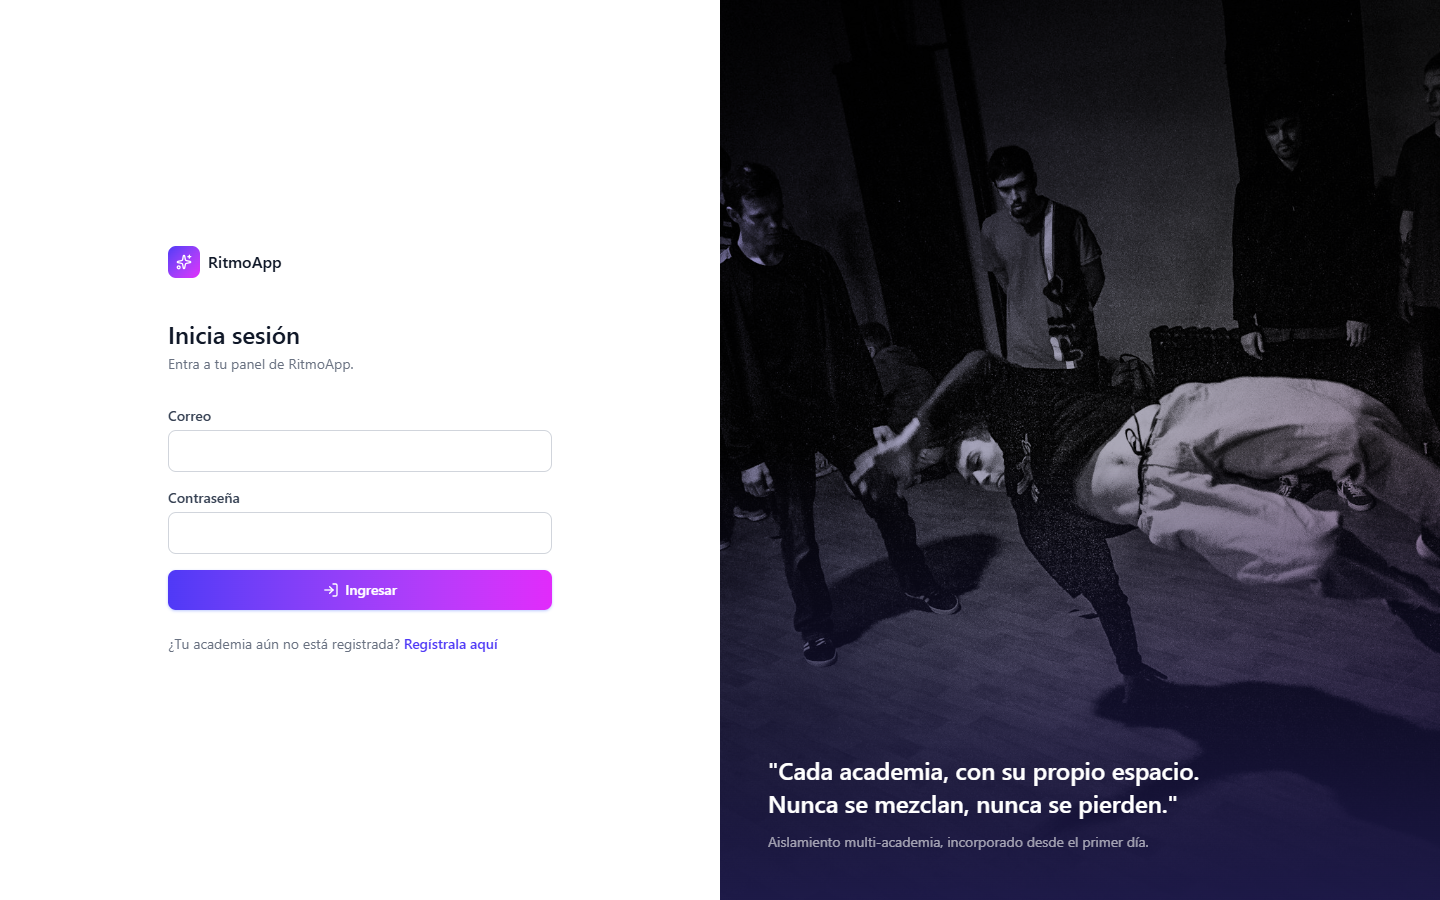
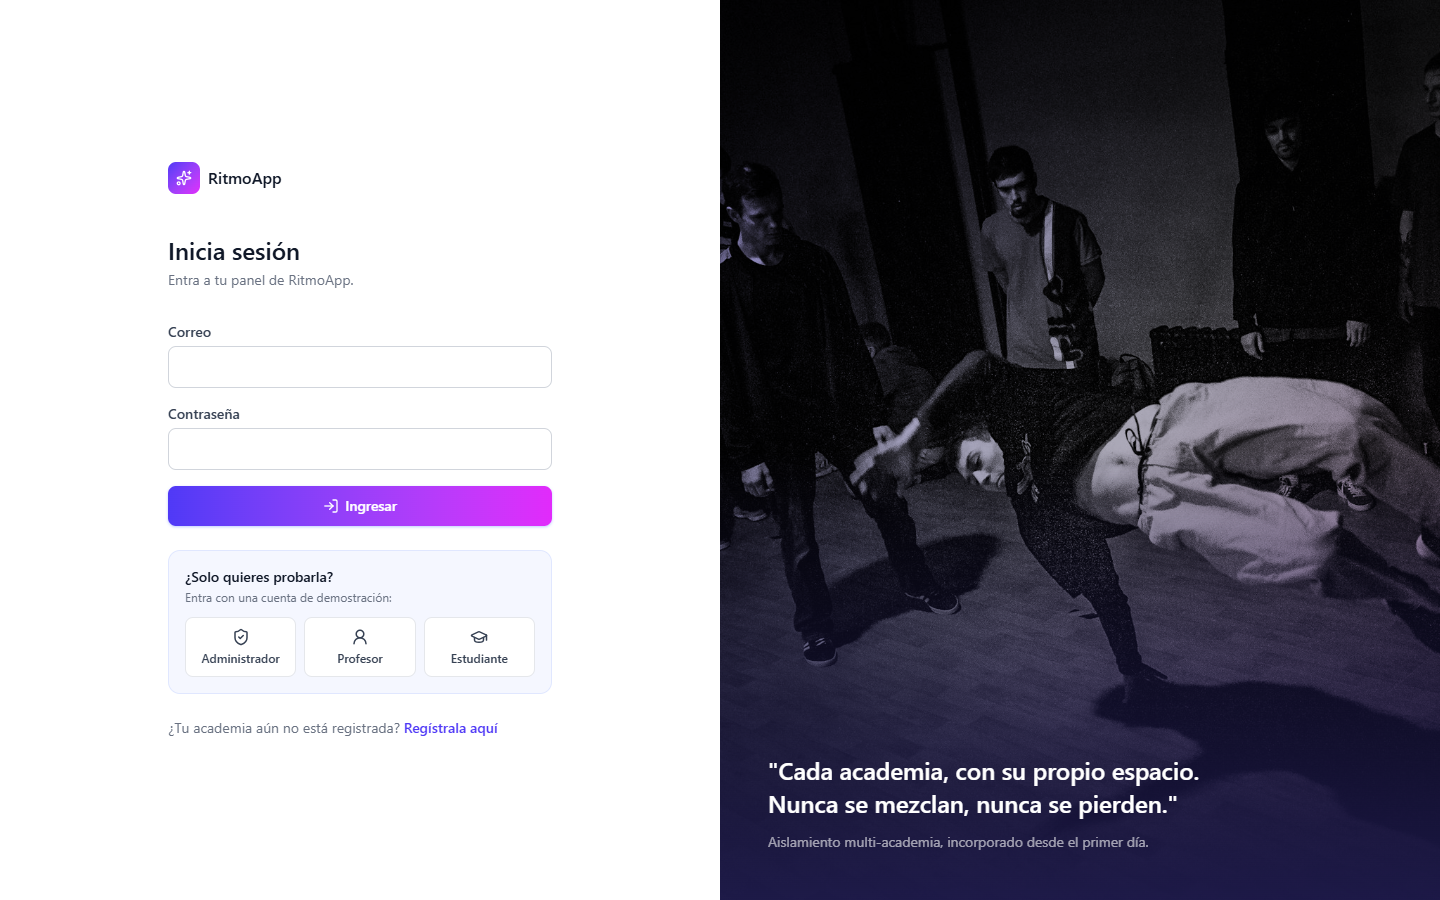
Prepara la demo pública: Render (API) + Neon (BD) + Vercel (frontend)
- render.yaml: la API como Blueprint en Render (Ohio, plan gratis), con
  health check, JWT_SECRET generado por Render y DATABASE_URL / CORS_ORIGIN
  pedidos al crear (nunca en el repo). La base de datos va en Neon porque
  el PostgreSQL gratuito de Render se borra a los 30 días.
- npm run start:demo: migraciones + seeds + arranque. La agenda de demo
  queda siempre alrededor de "hoy".
- El seed de demo deshace lo que cambien los visitantes (academia
  suspendida, salones/ritmos/usuarios de más), ya que en la demo pública
  cualquiera puede entrar como admin o superadmin.
- Login: accesos de un clic a las cuentas de demo (solo con
  VITE_MODO_DEMO=true) y aviso cuando la API gratuita está encendiendo
  (tarda ~1 minuto tras 15 minutos sin uso).
- frontend/vercel.json: las rutas de React Router (/admin/inicio, etc.)
  no dan 404 al recargar la página.
- frontend/.env.example documenta VITE_API_URL y VITE_MODO_DEMO.

Probado en local: start:demo con NODE_ENV=production arranca, aplica
migraciones y carga la demo; CORS solo acepta el origen configurado; los
tres botones de demo entran al panel correcto.

diff --git a/frontend/src/pages/LoginPage.jsx b/frontend/src/pages/LoginPage.jsx
@@ -1,9 +1,25 @@
-import { useState } from "react";
+import { useEffect, useState } from "react";
 import { Link, useNavigate } from "react-router-dom";
-import { Sparkles, LogIn } from "lucide-react";
+import { Sparkles, LogIn, ShieldCheck, GraduationCap, UserRound, Coffee } from "lucide-react";
 import loginDance from "../assets/login-dance.jpg";
 import { useAuth } from "../context/AuthContext";
 import { rutaInicioPara } from "../rutas";
+
+// Solo en la demo pública (VITE_MODO_DEMO=true): accesos de un clic para que
+// quien visite pueda probar cada rol sin copiar correos. Son las cuentas que
+// crea el seed de demostración, sin ningún privilegio fuera de esa academia.
+const MODO_DEMO = import.meta.env.VITE_MODO_DEMO === "true";
+const CUENTAS_DEMO = [
+  { rol: "Administrador", email: "admin@ritmocentral.test", icono: ShieldCheck },
+  { rol: "Profesor", email: "profesor@ritmocentral.test", icono: UserRound },
+  { rol: "Estudiante", email: "estudiante@ritmocentral.test", icono: GraduationCap },
+];
+const PASSWORD_DEMO = "Prueba123!";
+
+// El plan gratuito del hosting apaga la API tras 15 minutos sin uso y tarda
+// cerca de un minuto en volver a encender. Si el login se demora más de
+// esto, se avisa en vez de dejar el botón girando sin explicación.
+const MS_ANTES_DE_AVISAR = 4000;
 
 export default function LoginPage() {
   const { login } = useAuth();
@@ -12,19 +28,39 @@ export default function LoginPage() {
   const [password, setPassword] = useState("");
   const [error, setError] = useState("");
   const [cargando, setCargando] = useState(false);
+  const [servidorDespertando, setServidorDespertando] = useState(false);
 
-  async function manejarSubmit(e) {
-    e.preventDefault();
+  useEffect(() => {
+    if (!cargando) return undefined;
+    const temporizador = setTimeout(() => setServidorDespertando(true), MS_ANTES_DE_AVISAR);
+    return () => {
+      clearTimeout(temporizador);
+      setServidorDespertando(false);
+    };
+  }, [cargando]);
+
+  async function ingresar(correo, clave) {
     setError("");
     setCargando(true);
     try {
-      const usuario = await login(email, password);
+      const usuario = await login(correo, clave);
       navigate(rutaInicioPara(usuario.rol));
     } catch (err) {
       setError(err.message);
     } finally {
       setCargando(false);
     }
+  }
+
+  function manejarSubmit(e) {
+    e.preventDefault();
+    ingresar(email, password);
+  }
+
+  function entrarComoDemo(cuenta) {
+    setEmail(cuenta.email);
+    setPassword(PASSWORD_DEMO);
+    ingresar(cuenta.email, PASSWORD_DEMO);
   }
 
   return (
@@ -63,6 +99,13 @@ export default function LoginPage() {
               />
             </div>
 
+            {servidorDespertando && (
+              <p className="flex items-start gap-2 text-sm text-amber-800 bg-amber-50 dark:bg-amber-950 dark:text-amber-300 rounded-lg px-3 py-2">
+                <Coffee size={16} className="mt-0.5 shrink-0" />
+                El servidor de la demo estaba en reposo y está encendiendo. La primera entrada puede tardar hasta un minuto.
+              </p>
+            )}
+
             {error && <p className="text-sm text-red-600 bg-red-50 dark:bg-red-950 dark:text-red-400 rounded-lg px-3 py-2">{error}</p>}
 
             <button
@@ -73,6 +116,30 @@ export default function LoginPage() {
               <LogIn size={16} /> {cargando ? "Ingresando..." : "Ingresar"}
             </button>
           </form>
+
+          {MODO_DEMO && (
+            <div className="mt-6 rounded-xl border border-indigo-100 bg-indigo-50/60 p-4 dark:border-indigo-900 dark:bg-indigo-950/40">
+              <p className="text-sm font-medium text-gray-900 dark:text-gray-100">¿Solo quieres probarla?</p>
+              <p className="text-xs text-gray-500 dark:text-gray-400 mt-0.5 mb-3">Entra con una cuenta de demostración:</p>
+              <div className="grid grid-cols-3 gap-2">
+                {CUENTAS_DEMO.map((cuenta) => {
+                  const Icono = cuenta.icono;
+                  return (
+                    <button
+                      key={cuenta.email}
+                      type="button"
+                      disabled={cargando}
+                      onClick={() => entrarComoDemo(cuenta)}
+                      className="flex flex-col items-center gap-1 rounded-lg border border-gray-200 bg-white px-2 py-2.5 text-xs font-medium text-gray-700 hover:border-indigo-300 hover:text-indigo-700 disabled:opacity-50 dark:border-gray-700 dark:bg-gray-900 dark:text-gray-200 dark:hover:border-indigo-700"
+                    >
+                      <Icono size={18} />
+                      {cuenta.rol}
+                    </button>
+                  );
+                })}
+              </div>
+            </div>
+          )}
 
           <p className="text-sm text-gray-500 dark:text-gray-400 mt-6">
             ¿Tu academia aún no está registrada?{" "}

diff --git a/backend/prisma/seed-demo.js b/backend/prisma/seed-demo.js
@@ -123,6 +123,25 @@ async function main() {
   await prisma.reserva.deleteMany({ where: { tenantId: academia.id } });
   await prisma.clase.deleteMany({ where: { tenantId: academia.id } });
 
+  // En la demo pública cualquiera puede entrar como admin o superadmin: se
+  // deshace lo que hayan cambiado los visitantes para que la siguiente persona
+  // encuentre la academia igual (activa y sin salones, ritmos o usuarios de más).
+  await prisma.tenant.update({ where: { id: academia.id }, data: { estado: "ACTIVA" } });
+  await prisma.salon.deleteMany({
+    where: { tenantId: academia.id, id: { notIn: salones.map((s) => s.id) } },
+  });
+  await prisma.ritmo.deleteMany({
+    where: { tenantId: academia.id, id: { notIn: Object.values(ritmos).map((r) => r.id) } },
+  });
+  const correosDemo = [
+    "admin@ritmocentral.test",
+    ...Object.values(profesores).map((p) => p.email),
+    ...estudiantes.map((e) => e.email),
+  ];
+  await prisma.user.deleteMany({
+    where: { tenantId: academia.id, email: { notIn: correosDemo } },
+  });
+
   // Cada franja usa salones y profesores distintos entre sí, así que no hay
   // cruces. De lunes a sábado; el domingo la academia descansa.
   const franjas = [
